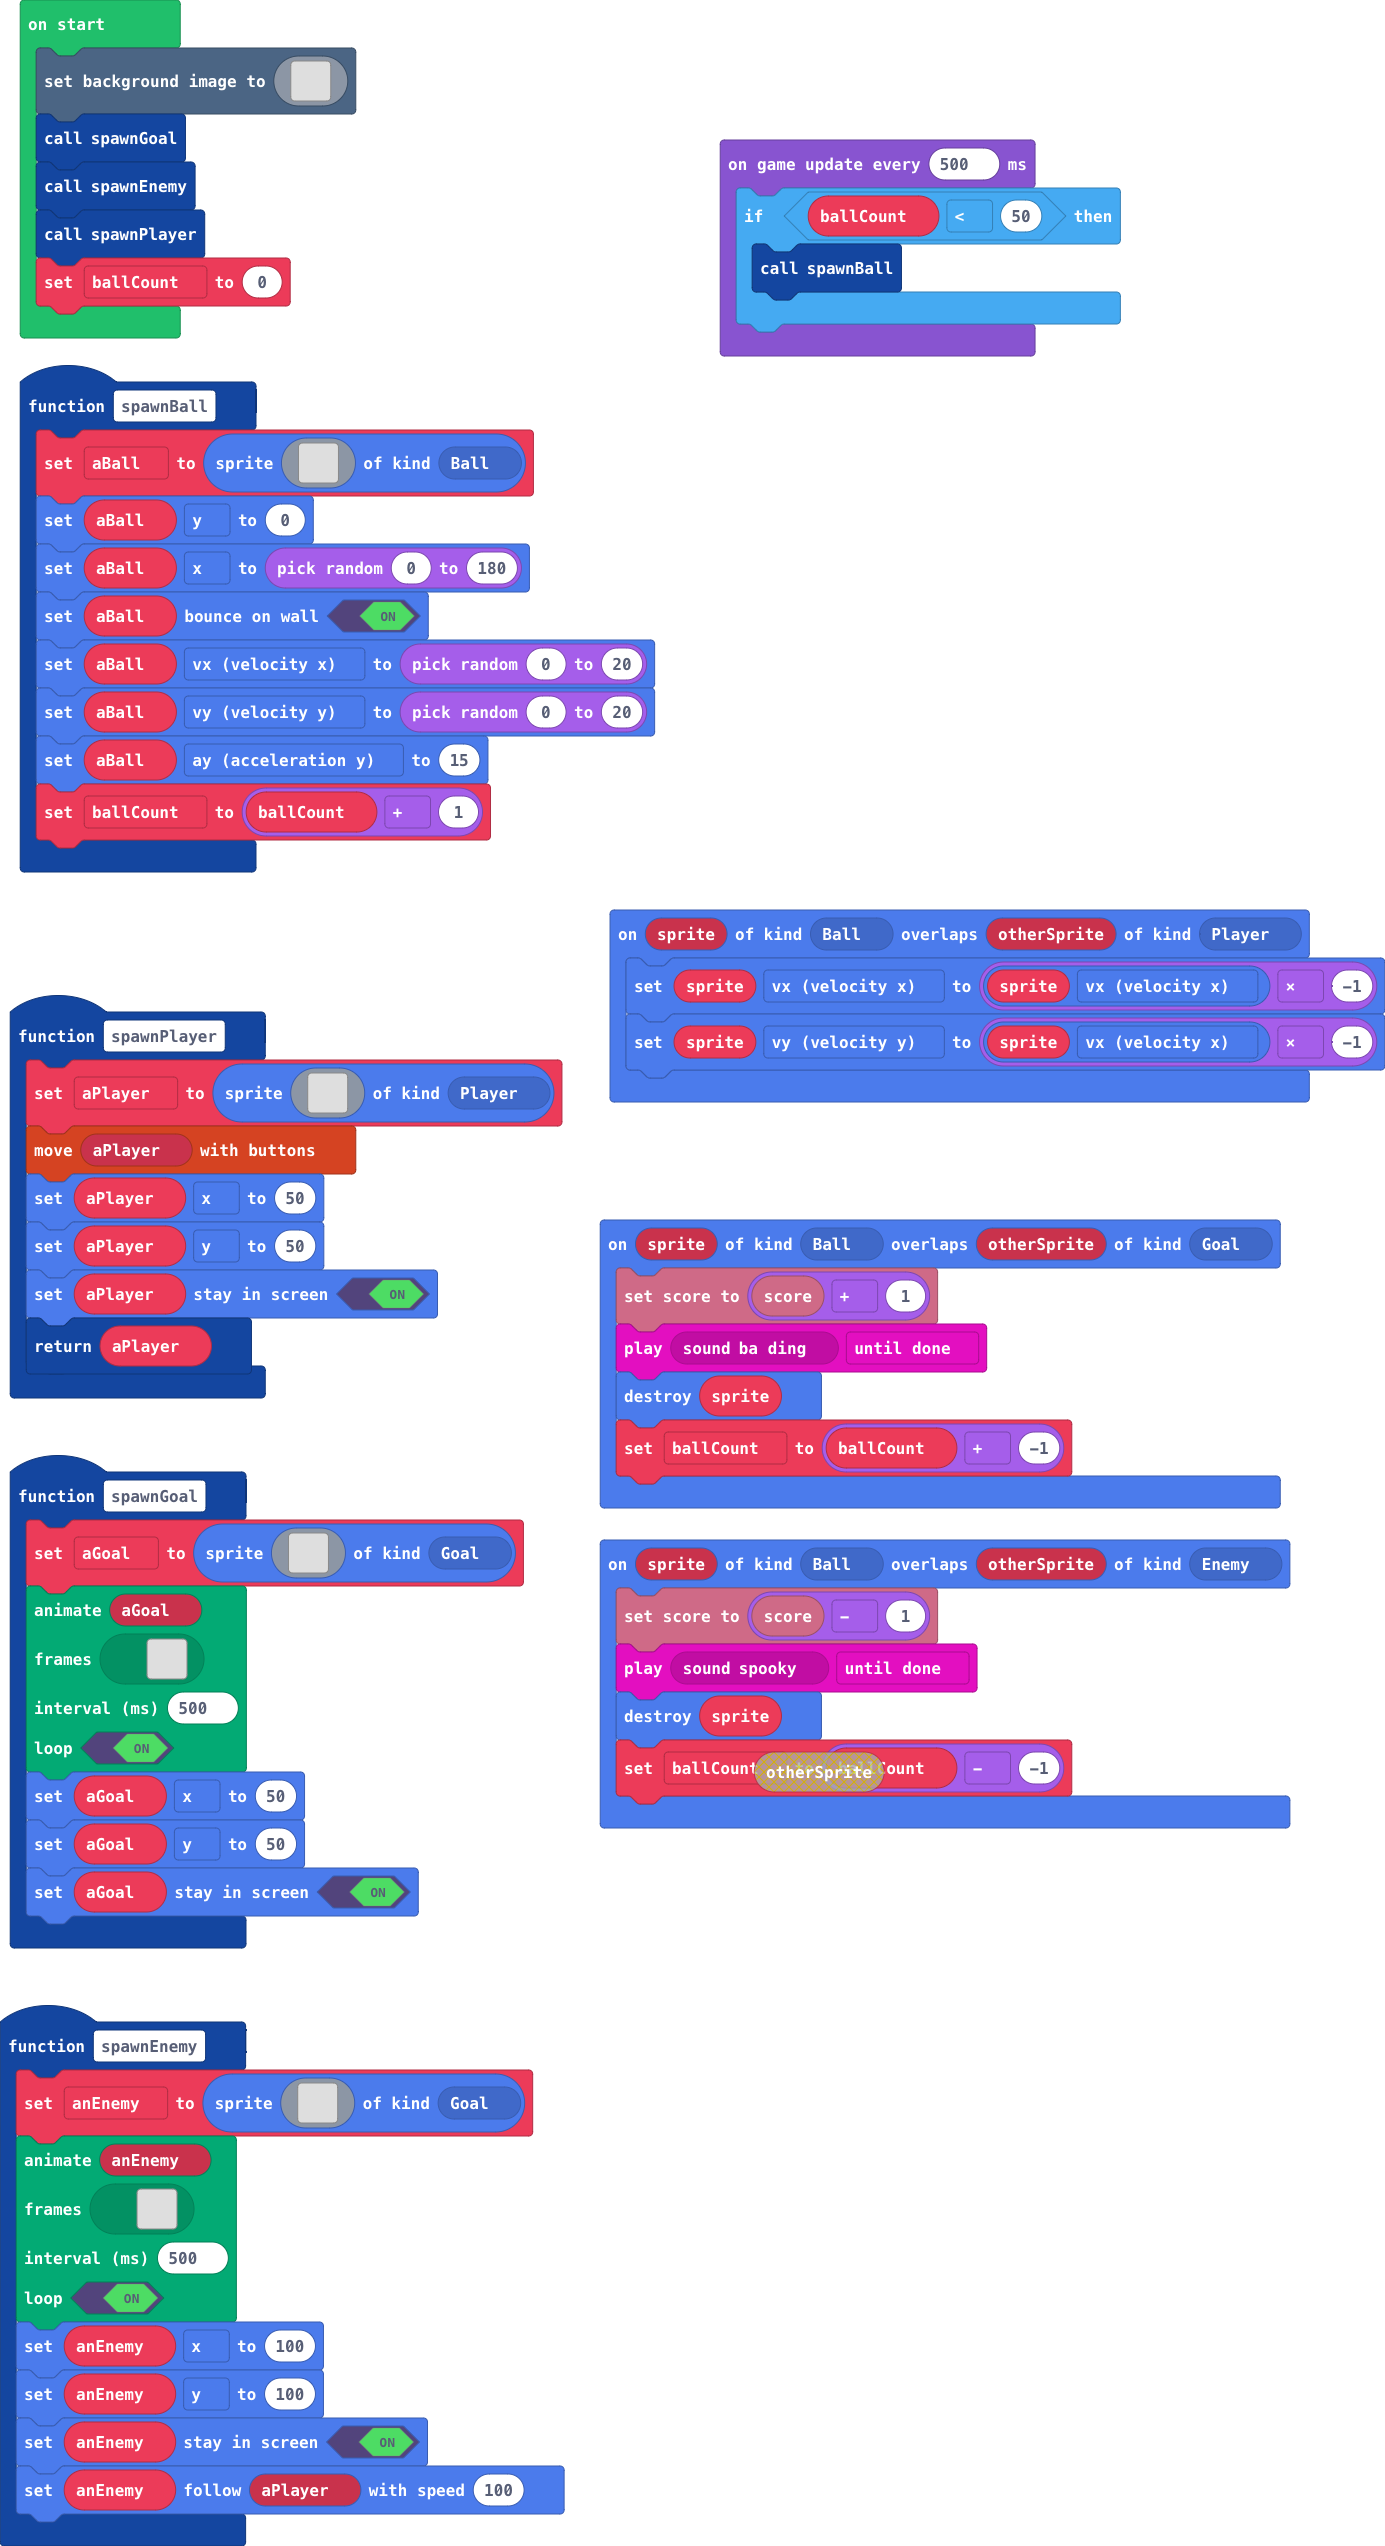
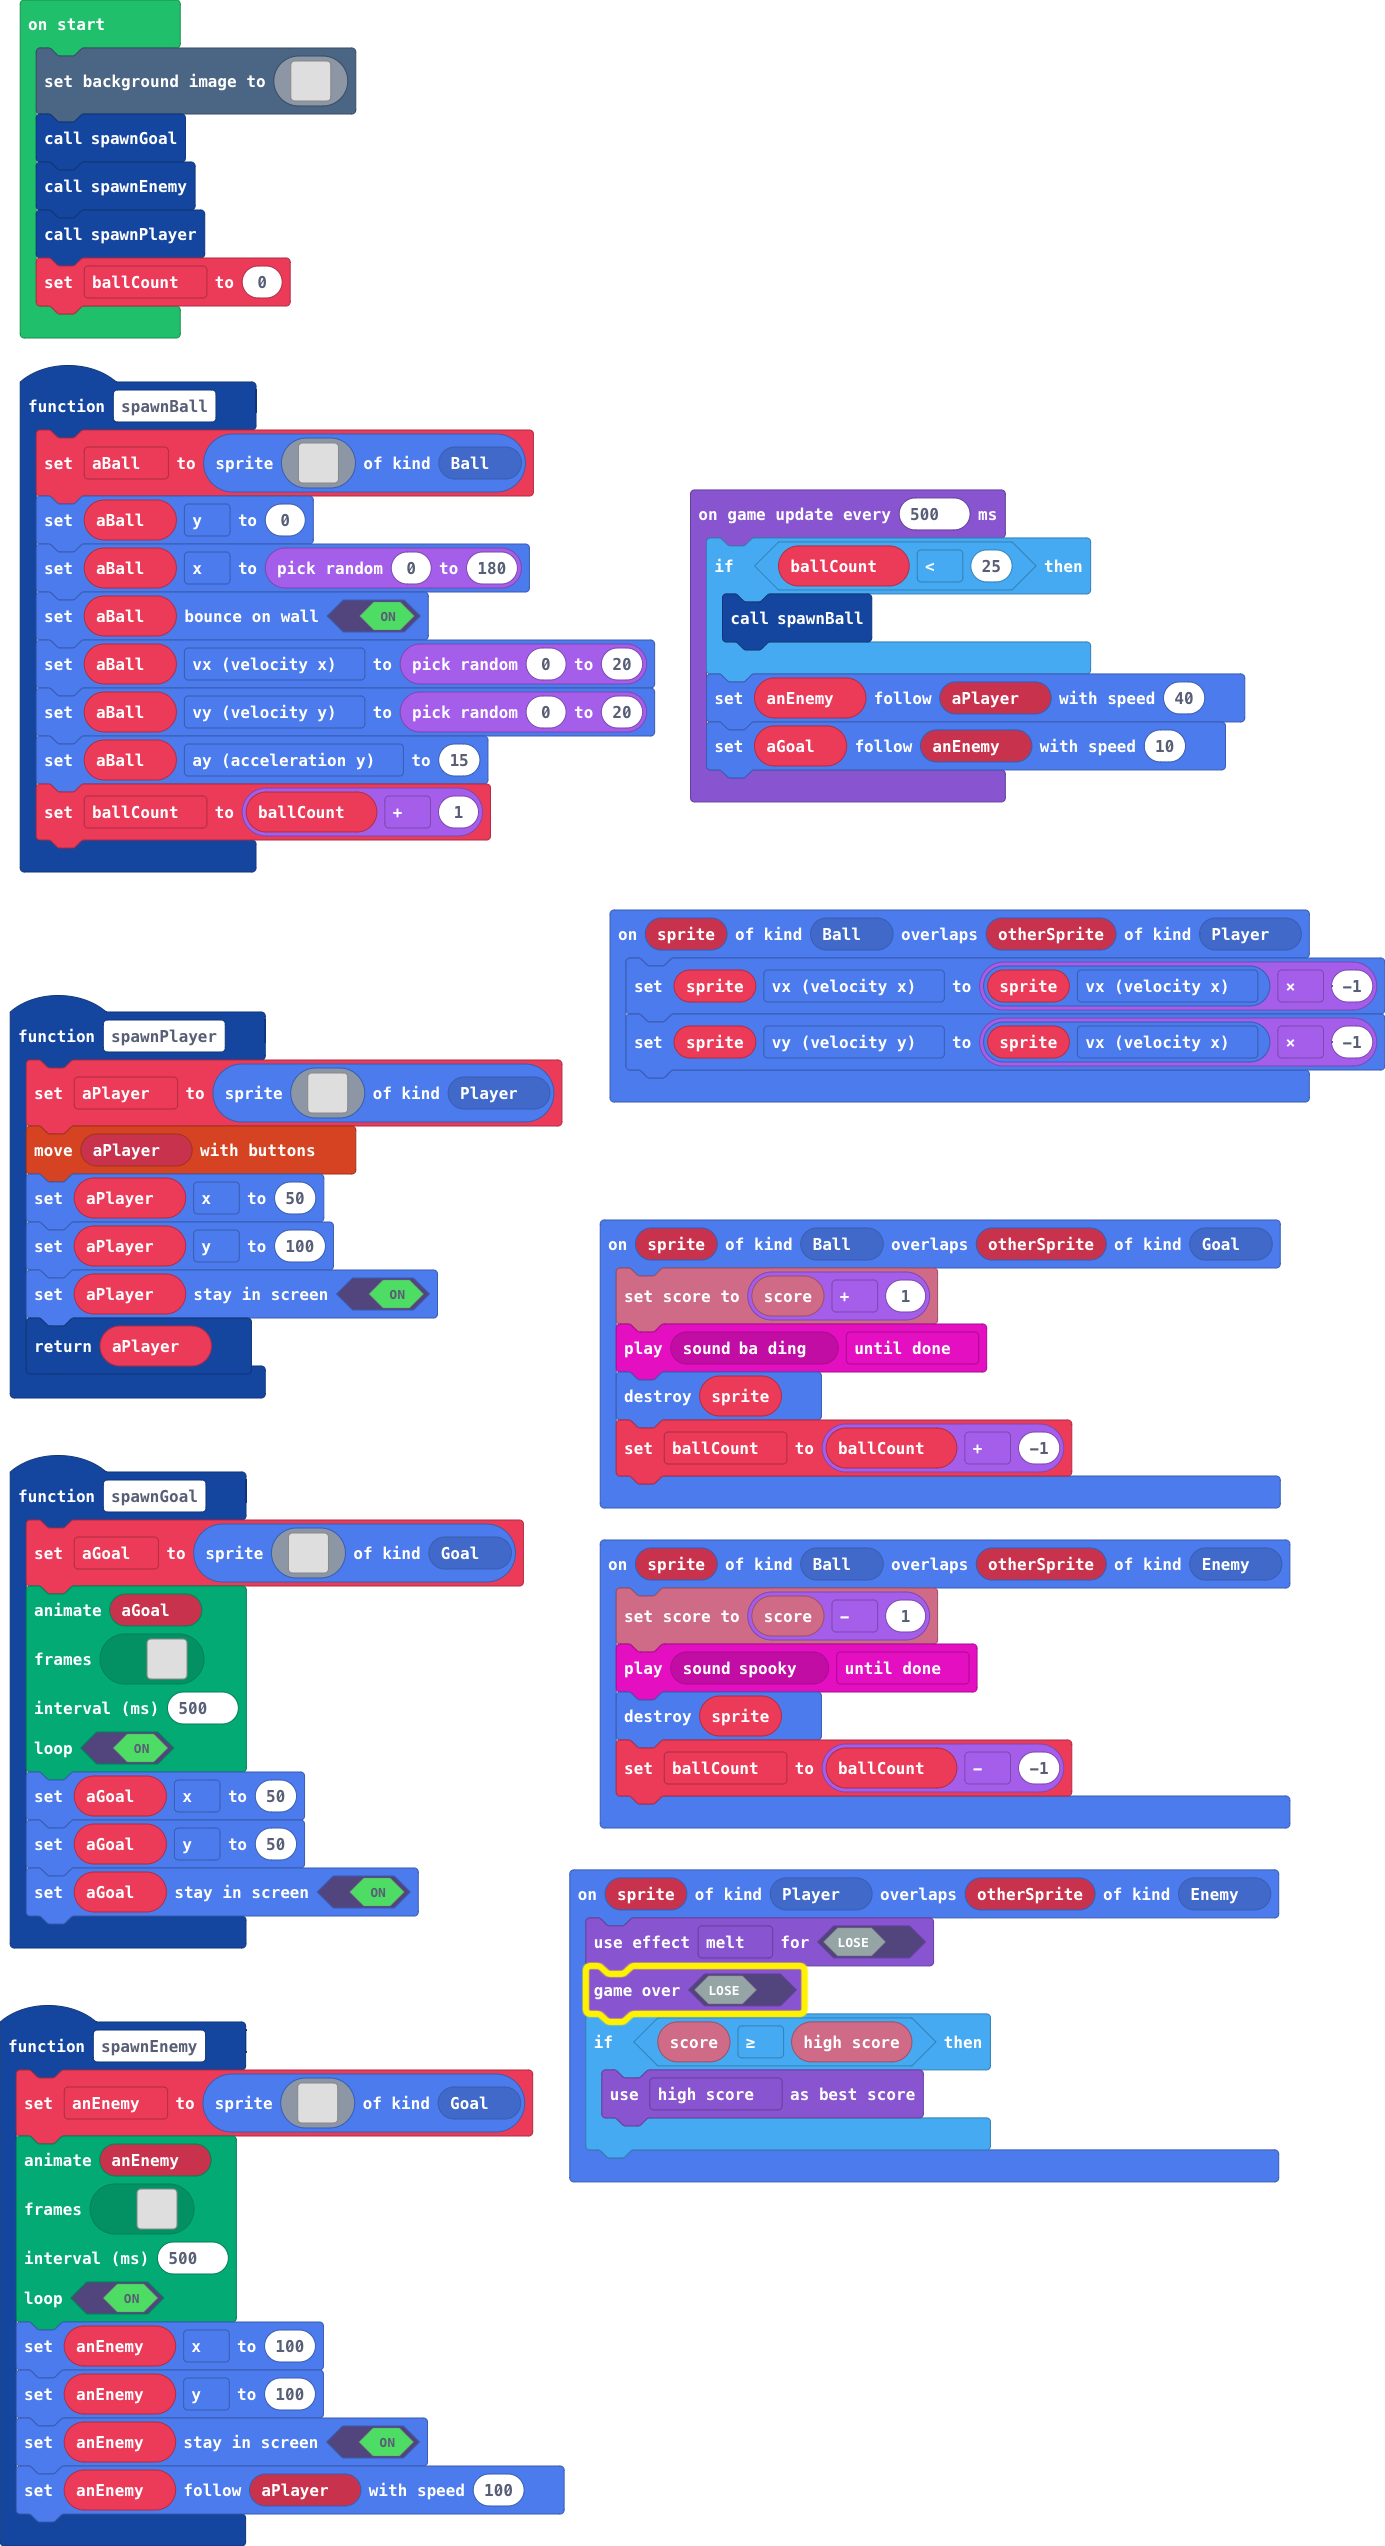
Update main.blocks, main.ts

diff --git a/main.ts b/main.ts
@@ -114,15 +114,15 @@ function spawnGoal () {
 function spawnPlayer () {
     aPlayer = sprites.create(img`
         . . . . . . . . . . . . . . . . 
+        . . . . . . . 3 . . 3 3 . . . . 
+        . . . . . . 3 3 . . 2 3 . . . . 
+        . . . . . . 2 2 . 2 2 2 . . . . 
         . . . . . . . . . . . . . . . . 
-        . . . . . . . . . . . . . . . . 
-        . . . . . . . . . . . . . . . . 
-        . . . . . . . . . . . . . . . . 
-        . . . . . . . . . . . . . . . . 
-        . . . . . . . . . . . . . . . . 
-        f f f f f f f f f f f f f f f f 
-        f f f f f f f f f f f f f f f f 
-        f f f f f f f f f f f f f f f f 
+        . . 2 2 . . . . . . . . . . . . 
+        . . 2 2 . . . . . . . . . . . 2 
+        . . 2 2 2 3 3 3 3 3 3 3 3 3 3 2 
+        . . 2 2 2 f f f f f f f f f 2 2 
+        . . 2 2 2 2 2 2 2 2 2 2 2 2 2 2 
         . . . . . . . . . . . . . . . . 
         . . . . . . . . . . . . . . . . 
         . . . . . . . . . . . . . . . . 
@@ -132,7 +132,7 @@ function spawnPlayer () {
         `, SpriteKind.Player)
     controller.moveSprite(aPlayer)
     aPlayer.x = 50
-    aPlayer.y = 50
+    aPlayer.y = 100
     aPlayer.setStayInScreen(true)
     return aPlayer
 }
@@ -291,6 +291,13 @@ sprites.onOverlap(SpriteKind.Ball, SpriteKind.Goal, function (sprite, otherSprit
     sprites.destroy(sprite)
     ballCount = ballCount + -1
 })
+sprites.onOverlap(SpriteKind.Player, SpriteKind.Enemy, function (sprite, otherSprite) {
+    game.setGameOverEffect(false, effects.melt)
+    game.gameOver(false)
+    if (info.score() >= info.highScore()) {
+        game.setGameOverScoringType(game.ScoringType.HighScore)
+    }
+})
 let anEnemy: Sprite = null
 let aPlayer: Sprite = null
 let aGoal: Sprite = null
@@ -423,7 +430,9 @@ spawnEnemy()
 spawnPlayer()
 ballCount = 0
 game.onUpdateInterval(500, function () {
-    if (ballCount < 50) {
+    if (ballCount < 25) {
         spawnBall()
     }
+    anEnemy.follow(aPlayer, 40)
+    aGoal.follow(anEnemy, 10)
 })
